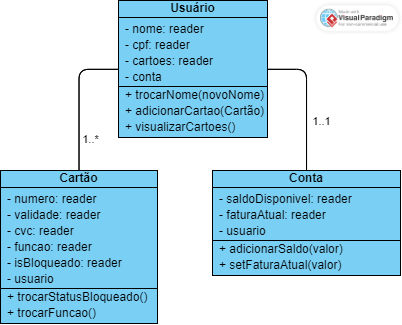
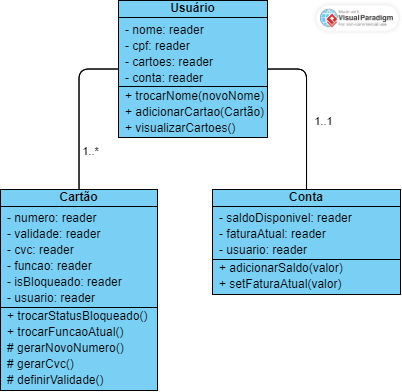
add aditional cartao methods

diff --git a/classes/cartao.rb b/classes/cartao.rb
@@ -1,14 +1,29 @@
 class Cartao
     attr_reader :numero, :validade, :cvc, :funcao, :isBloqueado, :usuario
 
-    def initialize
+    def initialize(usuario)
+
     end
 
     def trocarStatusBloqueado()
 
     end
 
-    def trocarFuncao() 
+    def trocarFuncaoAtual() 
+
+    end
+
+    protected
+
+    def definirValidade()
+
+    end
+
+    def gerarCvc()
+        
+    end
+
+    def gerarNovoNumero()
 
     end
 end
